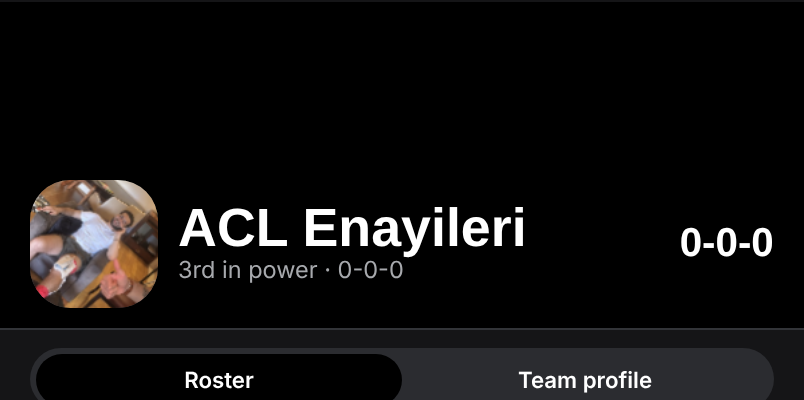
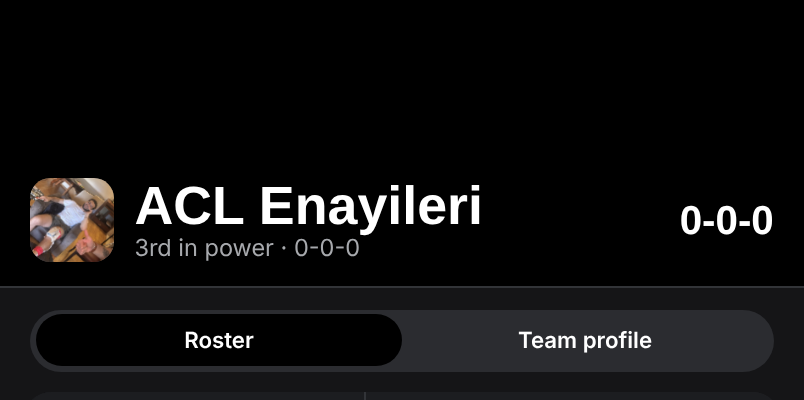
Home: space between header line and scoreboard
Claude-Session: https://claude.ai/code/session_01Bze7554zYTgci3mfzKEDgc

Changed region(s): [[0.0, 0.42, 1.0, 1.0], [0.8396, 0.51, 0.9639, 0.66]]

diff --git a/classic.html b/classic.html
@@ -1055,6 +1055,7 @@ html body .hdstk .th2 .rec{font:900 24px var(--f-disp)!important}
 html body .hdstk .th2{margin-top:8px!important;align-items:flex-start!important}
 html body .hdstk .th2>.av{width:50px!important;height:50px!important;min-width:50px!important;border-radius:12px!important}
 html body .hdstk .th2 .rec{align-self:center}
+html body .ah>.hdstk+*{margin-top:12px!important}
 </style>
 <div class="stage">
  <aside class="side"><h1>Fantasy Plus <span>for iPhone</span></h1><p>Design of the iPhone app. Tap around, it all works: the tabs, the players, the trade builder.</p><ul><li><b>Home</b>: score, last night, this week's review, category ranks, waivers. Tap the score for the full game.</li><li><b>Team</b>: roster and player cards</li><li><b>Matchup</b>: ESPN-style category table with our ball logic</li><li><b>More</b>: rankings and settings</li><li><b>Trades</b>: your market and the builder</li></ul><p>Numbers are a snapshot of your Anti-Quemo league (preseason projections). Photos show as initials here; the app uses real headshots.</p><p>On your phone, open this link directly and it fills the screen.</p></aside>

diff --git a/index.html b/index.html
@@ -1107,6 +1107,7 @@ html body .hdstk .th2 .rec{font:900 24px var(--f-disp)!important}
 html body .hdstk .th2{margin-top:8px!important;align-items:flex-start!important}
 html body .hdstk .th2>.av{width:50px!important;height:50px!important;min-width:50px!important;border-radius:12px!important}
 html body .hdstk .th2 .rec{align-self:center}
+html body .ah>.hdstk+*{margin-top:12px!important}
 </style>
 <div class="stage">
  <aside class="side"><h1>Fantasy Plus <span>for iPhone</span></h1><p>Design of the iPhone app. Tap around, it all works: the tabs, the players, the trade builder.</p><ul><li><b>Home</b>: score, last night, this week's review, category ranks, waivers. Tap the score for the full game.</li><li><b>Team</b>: roster and player cards</li><li><b>Matchup</b>: ESPN-style category table with our ball logic</li><li><b>More</b>: rankings and settings</li><li><b>Trades</b>: your market and the builder</li></ul><p>Numbers are a snapshot of your Anti-Quemo league (preseason projections). Photos show as initials here; the app uses real headshots.</p><p>On your phone, open this link directly and it fills the screen.</p></aside>
